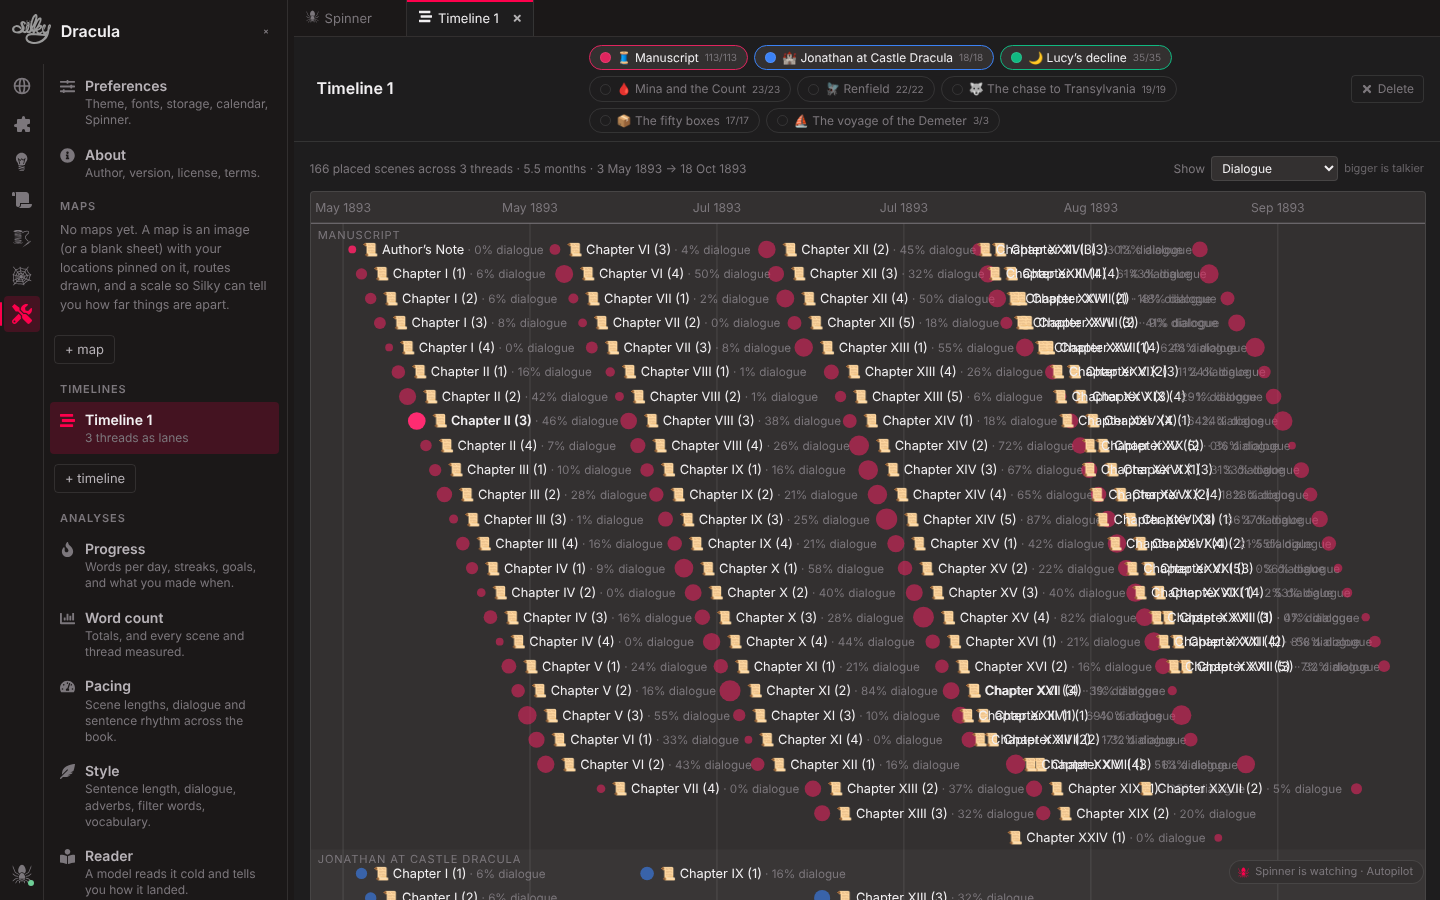
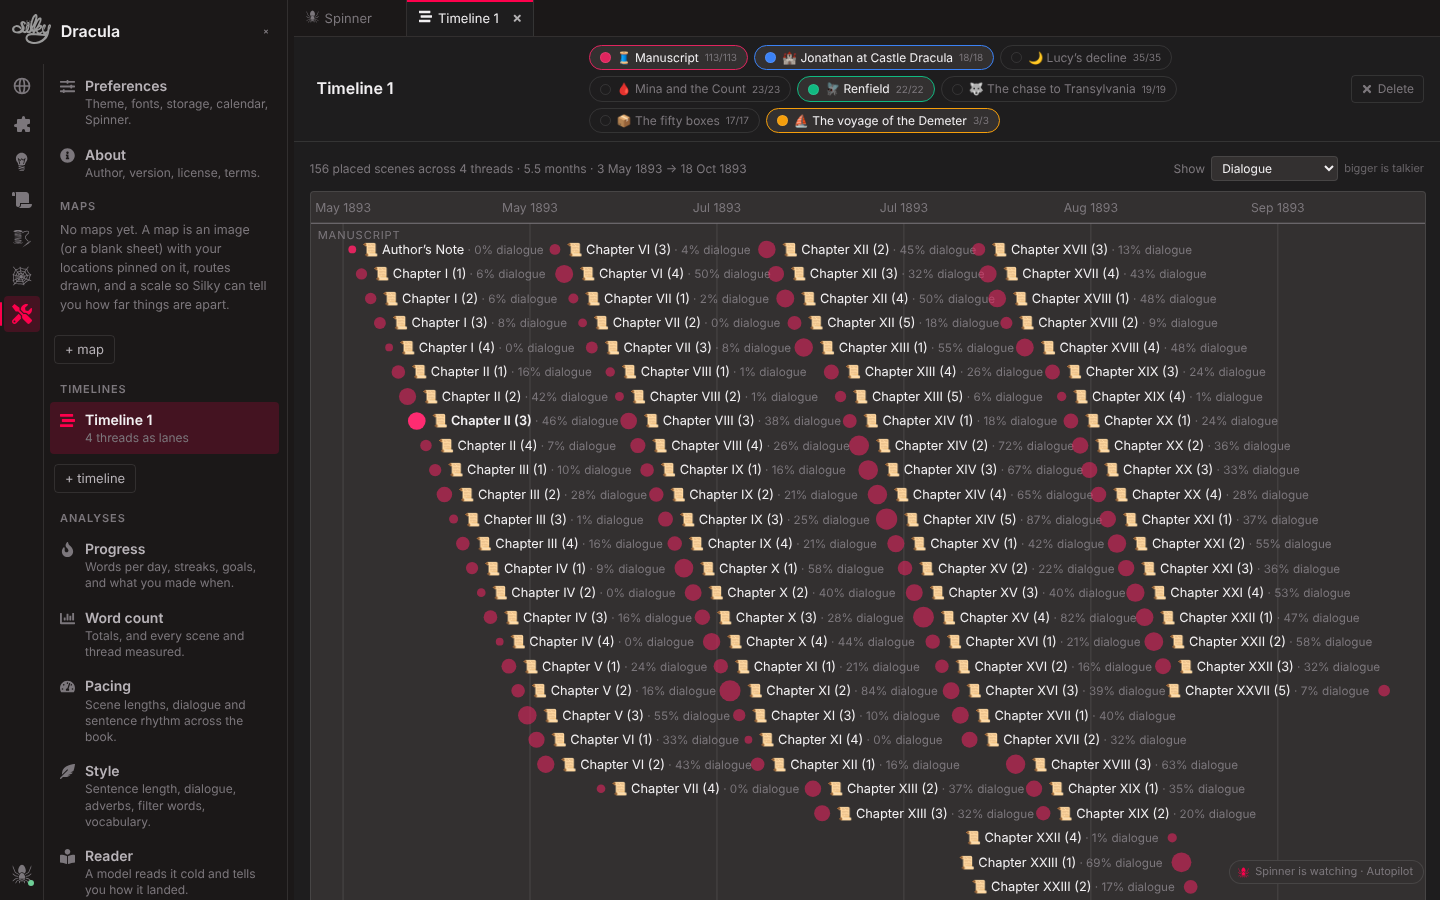
date_thread gives every scene its own date
Offsets only resolved inside the thread that was dated; absolute dates
let the same scenes sit at the same moment in any thread or timeline.

Claude-Session: https://claude.ai/code/session_01Lk5Rd19k9M4CCiZTwTCz2S

diff --git a/src/llm/actions.js b/src/llm/actions.js
@@ -4,7 +4,7 @@
    and undoable. */
 import { loadDir, loadFile, saveFile, moveFile } from "../utils/";
 import { roleFromKind, ROLES } from "../role";
-import { EMPTY_WHEN } from "../time";
+import { EMPTY_WHEN, parseDate, toMs, dateInput } from "../time";
 import { loadMaps } from "../maps";
 import { loadTimelines } from "../timelines";
 import { loadTabs, saveTabs } from "../tabs";
@@ -393,12 +393,16 @@ export const applyAction = (dir, a, ctx = {}) => {
         const scenes = t.sequences.map((f) => loadFile(dir + f)).filter((x) => x && x.type === "snippet");
         if (!scenes.length) throw new Error(`${t.name} has no scenes.`);
         const befores = scenes.map((x) => [x.file, x.when]);
+        const startMs = parseDate(String(a.start));
         let n = 0;
         scenes.forEach((x, i) => {
           const has = x.when && (x.when.date || x.when.relValue);
           if (has && !a.overwrite) return;
           const w = { ...EMPTY_WHEN, ...(x.when || {}) };
-          if (i === 0) { w.date = String(a.start); w.relValue = ""; }
+          // every scene gets its own date, so it sits at that moment in any thread or timeline
+          const ms = startMs != null ? startMs + i * toMs(a.every != null ? a.every : 1, a.unit || "days") : null;
+          if (ms != null) { w.date = dateInput(ms); w.relValue = ""; }
+          else if (i === 0) { w.date = String(a.start); w.relValue = ""; }
           else { w.date = ""; w.relValue = String(a.every != null ? a.every : 1); w.relUnit = a.unit || "days"; }
           x.when = w; save(dir, x); n += 1;
         });

diff --git a/src/time.js b/src/time.js
@@ -4,7 +4,7 @@
    time what the map is for space. Dates are plain calendar dates; years may
    be anything a Date can hold, so historical and far-future stories work. */
 
-import { activeCalendar, isCustom, dayMs, monthDays, yearDays, parseCustom, fmtCustom, yearOf } from "./calendar";
+import { activeCalendar, isCustom, dayMs, monthDays, yearDays, parseCustom, fmtCustom, yearOf, customInput } from "./calendar";
 
 export const DURATION_UNITS = [
   { id: "minutes", name: "minutes", ms: 60e3 },
@@ -64,6 +64,15 @@ export const fmtDate = (ms, { time = false, year = true } = {}) => {
   const yStr = y < 0 ? `${-y} BC` : String(y);
   const base = `${d.getUTCDate()} ${MONTHS[d.getUTCMonth()]}${year ? " " + yStr : ""}`;
   return time && (d.getUTCHours() || d.getUTCMinutes()) ? `${base}, ${pad(d.getUTCHours())}:${pad(d.getUTCMinutes())}` : base;
+};
+/** ms → a date string parseDate reads back, in the active calendar. */
+export const dateInput = (ms) => {
+  if (!Number.isFinite(ms)) return "";
+  if (isCustom(activeCalendar())) return customInput(ms);
+  const d = new Date(ms);
+  const y = d.getUTCFullYear();
+  const base = `${y < 0 ? "-" : ""}${String(Math.abs(y)).padStart(4, "0")}-${pad(d.getUTCMonth() + 1)}-${pad(d.getUTCDate())}`;
+  return d.getUTCHours() || d.getUTCMinutes() ? `${base} ${pad(d.getUTCHours())}:${pad(d.getUTCMinutes())}` : base;
 };
 export const fmtDuration = (ms) => {
   if (!ms) return "";

diff --git a/src/calendar.js b/src/calendar.js
@@ -77,4 +77,17 @@ export const fmtCustom = (ms, { time = false, year = true } = {}, cal = active) 
   const base = `${d} ${cal.months[mo].name}${year ? ` ${y}${cal.era ? " " + cal.era : ""}` : ""}`;
   return time && (hh || mm) ? `${base}, ${String(hh).padStart(2, "0")}:${String(mm).padStart(2, "0")}` : base;
 };
+/** ms → "Y-M-D HH:MM" in the custom calendar, which parseCustom reads back. */
+export const customInput = (ms, cal = active) => {
+  const dms = dayMs(cal);
+  const days = Math.floor(ms / dms);
+  const rem = ms - days * dms;
+  const yd = yearDays(cal);
+  const y = Math.floor(days / yd);
+  let doy = days - y * yd;
+  let mo = 0;
+  while (mo < cal.months.length - 1 && doy >= Number(cal.months[mo].days || 0)) { doy -= Number(cal.months[mo].days || 0); mo += 1; }
+  const hh = Math.floor(rem / 3600e3), mm = Math.floor((rem % 3600e3) / 60e3);
+  return `${y}-${mo + 1}-${doy + 1}${hh || mm ? ` ${String(hh).padStart(2, "0")}:${String(mm).padStart(2, "0")}` : ""}`;
+};
 export const yearOf = (ms, cal = active) => Math.floor(ms / (yearDays(cal) * dayMs(cal)));
